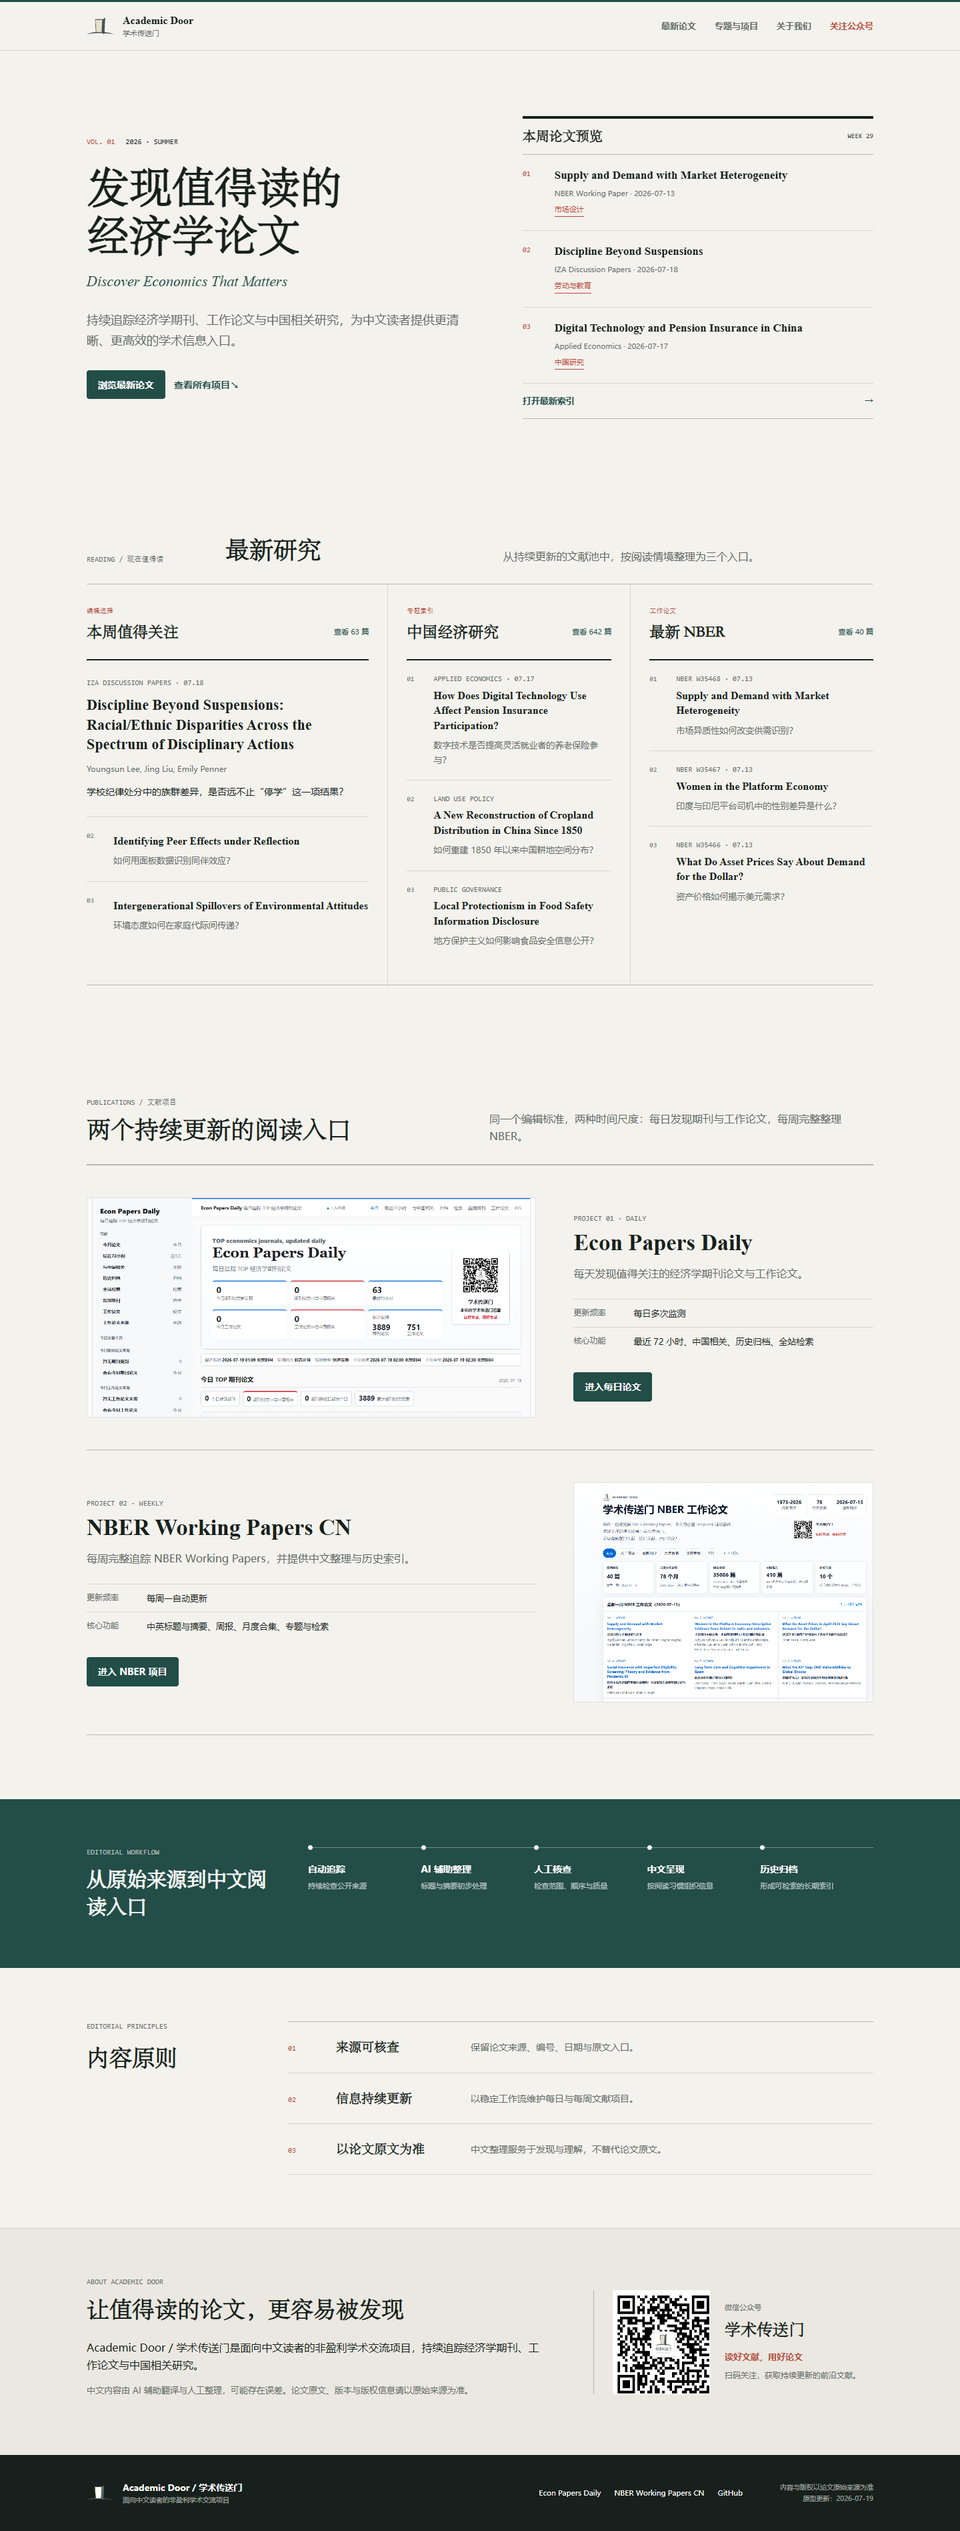
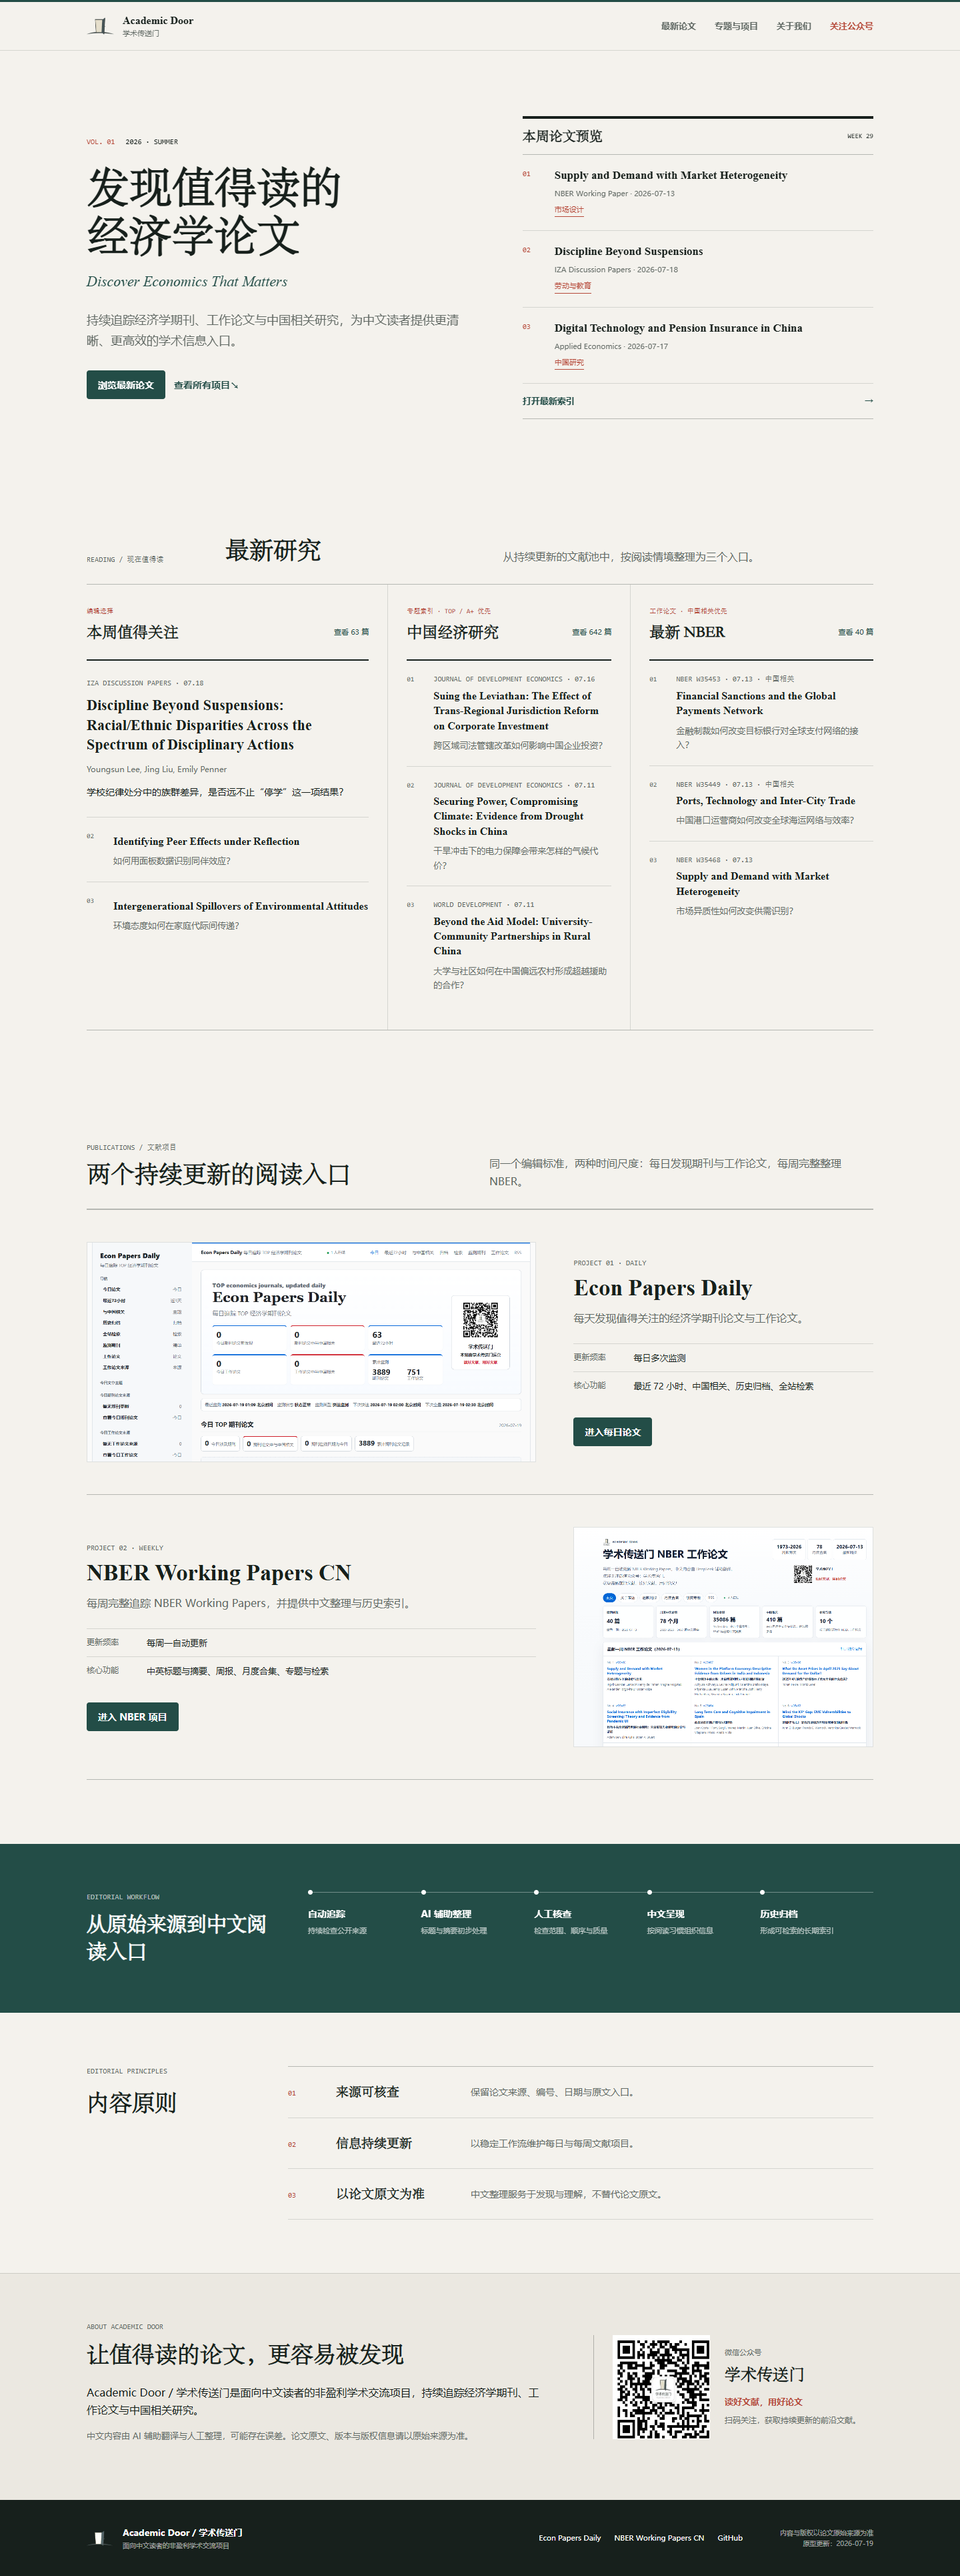
Refine editorial research priorities

diff --git a/prototypes/concept-a.html b/prototypes/concept-a.html
@@ -54,16 +54,16 @@
           <article class="paper-row"><span>03</span><div><h4>Intergenerational Spillovers of Environmental Attitudes</h4><p>环境态度如何在家庭代际间传递？</p></div></article>
         </section>
         <section class="research-stream">
-          <header><span>专题索引</span><h3>中国经济研究</h3><a href="https://academic-door.github.io/econ-paper-monitor/topics/china/">查看 642 篇</a></header>
-          <article class="paper-row"><span>01</span><div><p class="paper-source">APPLIED ECONOMICS · 07.17</p><h4>How Does Digital Technology Use Affect Pension Insurance Participation?</h4><p>数字技术是否提高灵活就业者的养老保险参与？</p></div></article>
-          <article class="paper-row"><span>02</span><div><p class="paper-source">LAND USE POLICY</p><h4>A New Reconstruction of Cropland Distribution in China Since 1850</h4><p>如何重建 1850 年以来中国耕地空间分布？</p></div></article>
-          <article class="paper-row"><span>03</span><div><p class="paper-source">PUBLIC GOVERNANCE</p><h4>Local Protectionism in Food Safety Information Disclosure</h4><p>地方保护主义如何影响食品安全信息公开？</p></div></article>
+          <header><span>专题索引 · TOP / A+ 优先</span><h3>中国经济研究</h3><a href="https://academic-door.github.io/econ-paper-monitor/topics/china/">查看 642 篇</a></header>
+          <article class="paper-row"><span>01</span><div><p class="paper-source">JOURNAL OF DEVELOPMENT ECONOMICS · 07.16</p><h4>Suing the Leviathan: The Effect of Trans-Regional Jurisdiction Reform on Corporate Investment</h4><p>跨区域司法管辖改革如何影响中国企业投资？</p></div></article>
+          <article class="paper-row"><span>02</span><div><p class="paper-source">JOURNAL OF DEVELOPMENT ECONOMICS · 07.11</p><h4>Securing Power, Compromising Climate: Evidence from Drought Shocks in China</h4><p>干旱冲击下的电力保障会带来怎样的气候代价？</p></div></article>
+          <article class="paper-row"><span>03</span><div><p class="paper-source">WORLD DEVELOPMENT · 07.11</p><h4>Beyond the Aid Model: University-Community Partnerships in Rural China</h4><p>大学与社区如何在中国偏远农村形成超越援助的合作？</p></div></article>
         </section>
         <section class="research-stream">
-          <header><span>工作论文</span><h3>最新 NBER</h3><a href="https://academic-door.github.io/nber-working-papers-cn/weekly/2026-07-13.html">查看 40 篇</a></header>
-          <article class="paper-row"><span>01</span><div><p class="paper-source">NBER W35468 · 07.13</p><h4>Supply and Demand with Market Heterogeneity</h4><p>市场异质性如何改变供需识别？</p></div></article>
-          <article class="paper-row"><span>02</span><div><p class="paper-source">NBER W35467 · 07.13</p><h4>Women in the Platform Economy</h4><p>印度与印尼平台司机中的性别差异是什么？</p></div></article>
-          <article class="paper-row"><span>03</span><div><p class="paper-source">NBER W35466 · 07.13</p><h4>What Do Asset Prices Say About Demand for the Dollar?</h4><p>资产价格如何揭示美元需求？</p></div></article>
+          <header><span>工作论文 · 中国相关优先</span><h3>最新 NBER</h3><a href="https://academic-door.github.io/nber-working-papers-cn/weekly/2026-07-13.html">查看 40 篇</a></header>
+          <article class="paper-row"><span>01</span><div><p class="paper-source">NBER W35453 · 07.13 · 中国相关</p><h4>Financial Sanctions and the Global Payments Network</h4><p>金融制裁如何改变目标银行对全球支付网络的接入？</p></div></article>
+          <article class="paper-row"><span>02</span><div><p class="paper-source">NBER W35449 · 07.13 · 中国相关</p><h4>Ports, Technology and Inter-City Trade</h4><p>中国港口运营商如何改变全球海运网络与效率？</p></div></article>
+          <article class="paper-row"><span>03</span><div><p class="paper-source">NBER W35468 · 07.13</p><h4>Supply and Demand with Market Heterogeneity</h4><p>市场异质性如何改变供需识别？</p></div></article>
         </section>
       </div>
     </section>

diff --git a/DESIGN.md b/DESIGN.md
@@ -71,6 +71,7 @@ Section spacing is generally `64–80px` on desktop and `48–64px` on mobile. L
 - Header: light sticky treatment, visible focus, reliable mobile disclosure.
 - Buttons: command-oriented text, maximum `6px` radius, clear primary/secondary hierarchy.
 - Paper records: title first, then author, source/date, and a one-sentence research question.
+- Editorial ordering: China research prioritizes journals in the existing `hourly_crossref_priority` TOP/A+ source set, then recency; the latest NBER stream places verified China-related papers before the remaining weekly records.
 - Tags: small topical metadata, not pill decoration.
 - Project previews: real screenshots, cropped to show the product interface rather than generic atmosphere.
 - QR code: integrated with the follow message and project statement.
@@ -104,4 +105,3 @@ Section spacing is generally `64–80px` on desktop and `48–64px` on mobile. L
 - **Concept A**: the hero behaves like the opening spread of an academic review, with an annotated current-issue table of contents.
 - **Concept B**: the homepage behaves like a precise, browsable research index with a visible record system.
 - **Concept C**: the project portfolio becomes a pair of full-width editorial publications inside one calm institutional identity.
-

diff --git a/REVIEW.md b/REVIEW.md
@@ -41,6 +41,8 @@ It best balances the four jobs of the homepage:
 
 For the final homepage, retain Concept A’s overall architecture and visual system. Consider borrowing only one element from Concept B: the compact category switcher, if real content later becomes dynamically loaded.
 
+Concept A now also demonstrates two explicit editorial ranking rules: the China stream uses the existing TOP/A+ priority-source list before recency, and the NBER stream places verified China-related papers first. These rules should be generated from project data in production rather than maintained as handwritten homepage copy.
+
 ## Emil Kowalski Motion Review
 
 | Before | After | Why |
